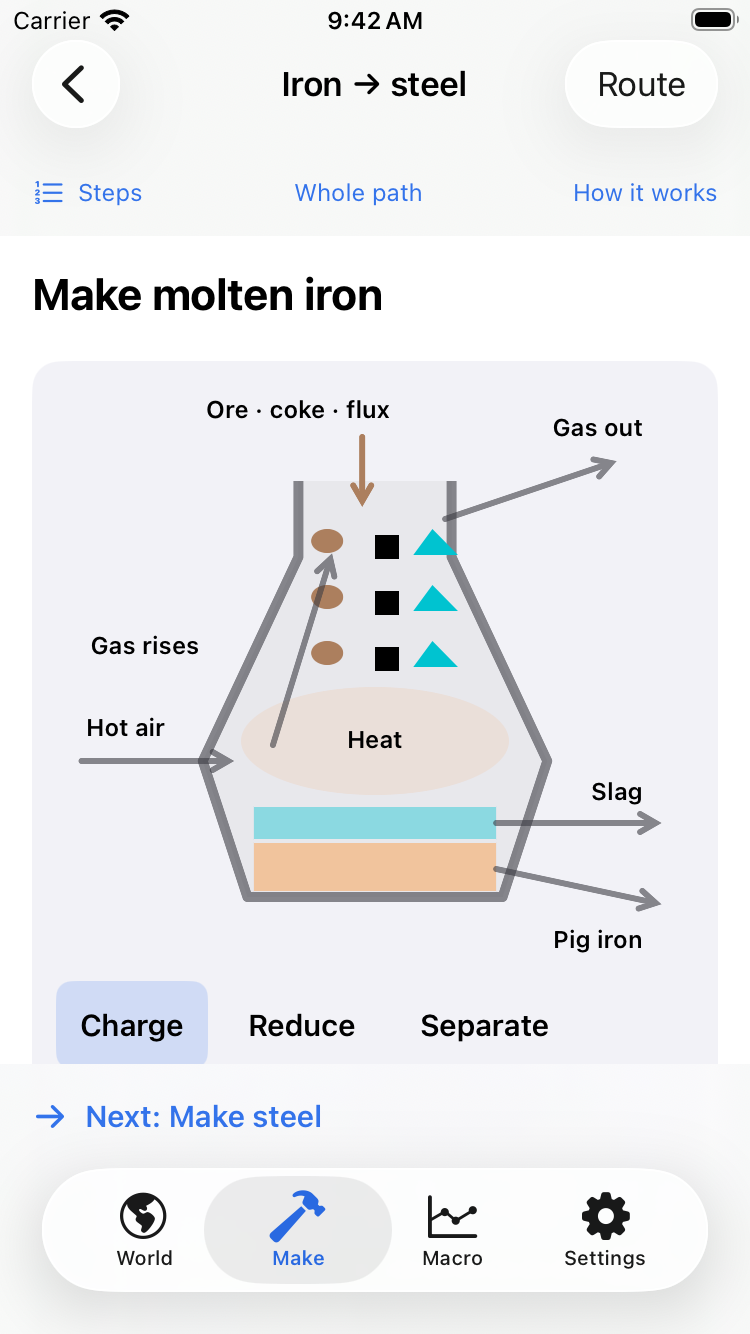
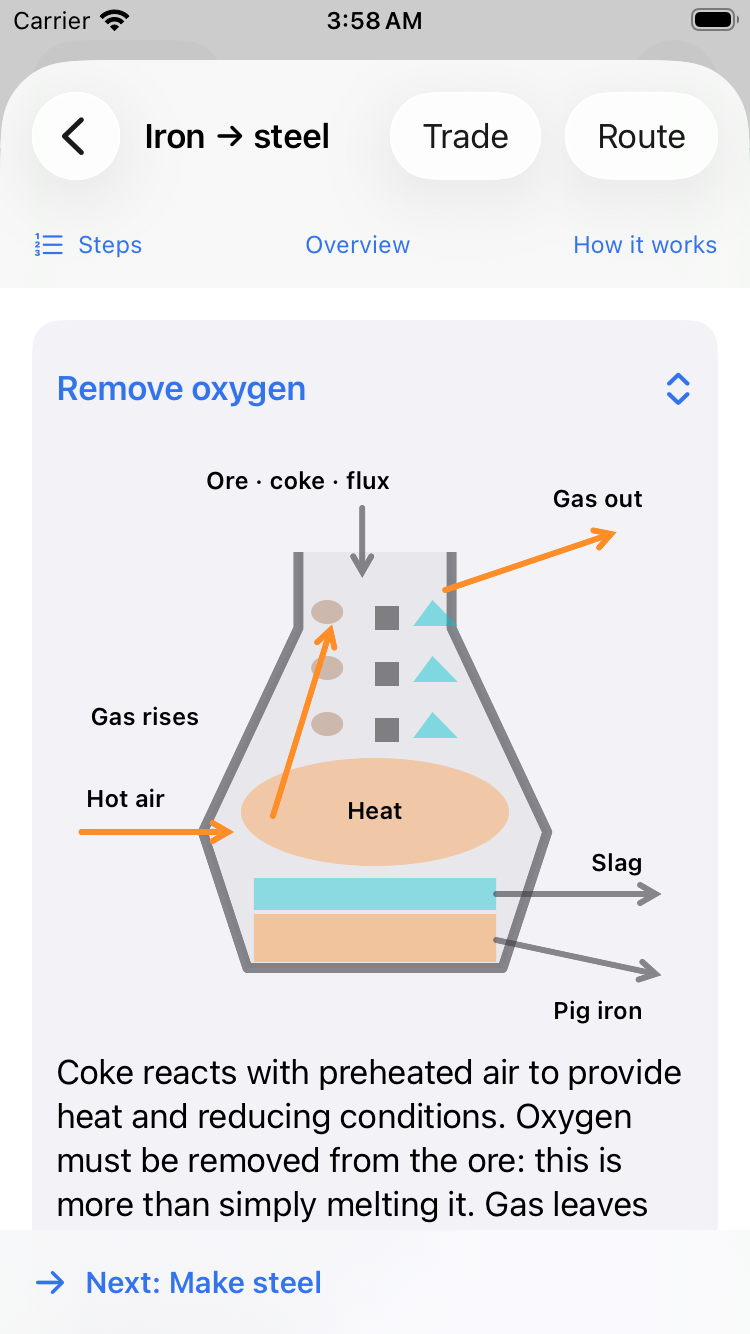
Explain iron reduction beside the native Pulse mechanism

diff --git a/work.html b/work.html
@@ -72,60 +72,70 @@
             </p>
           </div>
           <div class="pf-case-layout">
-            <div class="pf-case-reading">
-              <div class="pf-tabs" role="tablist" aria-label="View a Pulse screen">
-                <button id="tab-trade" role="tab" aria-controls="panel-trade" aria-selected="true" data-panel="trade"><span>01</span> 贸易 / Trade</button>
-                <button id="tab-routes" role="tab" aria-controls="panel-routes" aria-selected="false" tabindex="-1" data-panel="routes"><span>02</span> 工艺 / Process</button>
-                <button id="tab-mechanism" role="tab" aria-controls="panel-mechanism" aria-selected="false" tabindex="-1" data-panel="mechanism"><span>03</span> 原理 / Mechanism</button>
-              </div>
-              <article class="pf-explanation" data-copy="trade">
+            <div class="pf-tabs" role="tablist" aria-label="View a Pulse screen">
+              <button id="tab-trade" role="tab" aria-controls="panel-trade" aria-selected="true" data-panel="trade"><span>01</span> 贸易 / Trade</button>
+              <button id="tab-routes" role="tab" aria-controls="panel-routes" aria-selected="false" tabindex="-1" data-panel="routes"><span>02</span> 工艺 / Process</button>
+              <button id="tab-mechanism" role="tab" aria-controls="panel-mechanism" aria-selected="false" tabindex="-1" data-panel="mechanism"><span>03</span> 原理 / Mechanism</button>
+            </div>
+            <article class="pf-case-panel" id="panel-trade" role="tabpanel" aria-labelledby="tab-trade" tabindex="0">
+              <header class="pf-explanation pf-case-question">
                 <p class="pf-eyebrow">COUNTRIES → GOODS → PARTNERS</p>
                 <h3><span lang="zh-CN">谁在向谁交易？</span><span lang="en">Who trades with whom?</span>
                 </h3>
-                <p><span lang="zh-CN">选择铁矿石，查看主要贸易关系、金额与来源。地图呈现的是年度贸易额，不是航线或实时货运。</span><span lang="en">Select iron ore to inspect leading relationships, values and their source. The map shows annual trade value, not shipping routes or live cargo.</span>
-                </p>
-                <div class="pf-reading-note"><span lang="zh-CN">读图提示：截图仅画出 1,075 对关系中的前 15 对。未显示不等于没有贸易。</span><span lang="en">Reading the screen: 15 of 1,075 relationships are drawn. An omitted line does not mean no trade.</span>
-                </div>
-              </article>
-              <article class="pf-explanation" data-copy="routes" hidden>
-                <p class="pf-eyebrow">MATERIAL → PROCESS → PRODUCT</p>
-                <h3><span lang="zh-CN">矿石与废钢，为什么走不同的路？</span><span lang="en">Why do ore and scrap take different paths?</span>
-                </h3>
-                <p><span lang="zh-CN">矿石需要去除氧；废钢已经是金属，需要重新熔化。比较两条路线，再进入各自的工序。</span><span lang="en">Ore needs oxygen removed; scrap is already metal and is remelted. Compare the two routes, then explore their steps.</span>
-                </p>
-                <div class="pf-reading-note"><span lang="zh-CN">工艺参考：DOE 2015。一般生产示例，不代表地图上某一笔贸易的实际去向。</span><span lang="en">Process reference: DOE 2015. General production examples, not the destination of a mapped shipment.</span>
-                </div>
-              </article>
-              <article class="pf-explanation" data-copy="mechanism" hidden>
-                <p class="pf-eyebrow">A DIAGRAM YOU CAN QUESTION</p>
-                <h3><span lang="zh-CN">不只记住名称，更要看懂变化。</span><span lang="en">Understand the change, not just its name.</span>
-                </h3>
-                <p><span lang="zh-CN">用示意图理解材料如何变化，再查看解释和来源。图形帮助理解机制，不把简化画面当成设备图纸。</span><span lang="en">Use a schematic to understand a material change, then examine the explanation and source. A learning diagram explains a mechanism; it is not an equipment blueprint.</span>
-                </p>
-                <div class="pf-reading-note"><span lang="zh-CN">此网页切换真实截图；交互式学习发生在 iOS 应用中。</span><span lang="en">This page switches between actual screenshots. Interactive lessons run in the iOS app.</span>
-                </div>
-              </article>
-            </div>
-            <div class="pf-gallery">
-              <figure id="panel-trade" role="tabpanel" aria-labelledby="tab-trade" tabindex="0" >
+              </header>
+              <figure class="pf-gallery">
                 <a href="/media/pulse/world-iron-ore.png" target="_blank" rel="noopener" aria-label="Open full-size Annual iron ore trade map, CEPII BACI 2024">
                 <img src="/media/pulse/world-iron-ore.png" width="750" height="1334" alt="Annual iron ore trade map, CEPII BACI 2024" loading="lazy"></a>
                 <figcaption>实际应用截图 / Actual app screen · <a href="/media/pulse/world-iron-ore.png" target="_blank" rel="noopener">查看原图 / Full size ↗</a>
                 </figcaption>
               </figure>
-              <figure id="panel-routes" role="tabpanel" aria-labelledby="tab-routes" tabindex="0" hidden>
+              <div class="pf-explanation pf-case-answer">
+                <p><span lang="zh-CN">选择铁矿石，查看主要贸易关系、金额与来源。地图呈现的是年度贸易额，不是航线或实时货运。</span><span lang="en">Select iron ore to inspect leading relationships, values and their source. The map shows annual trade value, not shipping routes or live cargo.</span>
+                </p>
+                <div class="pf-reading-note"><span lang="zh-CN">读图提示：截图仅画出 1,075 对关系中的前 15 对。未显示不等于没有贸易。</span><span lang="en">Reading the screen: 15 of 1,075 relationships are drawn. An omitted line does not mean no trade.</span>
+                </div>
+              </div>
+            </article>
+            <article class="pf-case-panel" id="panel-routes" role="tabpanel" aria-labelledby="tab-routes" tabindex="0" hidden>
+              <header class="pf-explanation pf-case-question">
+                <p class="pf-eyebrow">MATERIAL → PROCESS → PRODUCT</p>
+                <h3><span lang="zh-CN">矿石与废钢，为什么走不同的路？</span><span lang="en">Why do ore and scrap take different paths?</span>
+                </h3>
+              </header>
+              <figure class="pf-gallery">
                 <a href="/media/pulse/steel-routes.png" target="_blank" rel="noopener" aria-label="Open full-size Two steelmaking routes: ore reduction and scrap remelting">
                 <img src="/media/pulse/steel-routes.png" width="750" height="1334" alt="Two steelmaking routes: ore reduction and scrap remelting" loading="lazy"></a>
                 <figcaption>实际应用截图 / Actual app screen · <a href="/media/pulse/steel-routes.png" target="_blank" rel="noopener">查看原图 / Full size ↗</a>
                 </figcaption>
               </figure>
-              <figure id="panel-mechanism" role="tabpanel" aria-labelledby="tab-mechanism" tabindex="0" hidden>
-                <a href="/media/pulse/steel-mechanism.png" target="_blank" rel="noopener" aria-label="Open full-size Pulse steelmaking mechanism learning screen">
-                <img src="/media/pulse/steel-mechanism.png" width="750" height="1334" alt="Pulse steelmaking mechanism learning screen" loading="lazy"></a>
+              <div class="pf-explanation pf-case-answer">
+                <p><span lang="zh-CN">矿石需要去除氧；废钢已经是金属，需要重新熔化。比较两条路线，再进入各自的工序。</span><span lang="en">Ore needs oxygen removed; scrap is already metal and is remelted. Compare the two routes, then explore their steps.</span>
+                </p>
+                <div class="pf-reading-note"><span lang="zh-CN">工艺参考：DOE 2015。一般生产示例，不代表地图上某一笔贸易的实际去向。</span><span lang="en">Process reference: DOE 2015. General production examples, not the destination of a mapped shipment.</span>
+                </div>
+              </div>
+            </article>
+            <article class="pf-case-panel" id="panel-mechanism" role="tabpanel" aria-labelledby="tab-mechanism" tabindex="0" hidden>
+              <header class="pf-explanation pf-case-question">
+                <p class="pf-eyebrow">ORE → IRON / 矿石 → 铁</p>
+                <h3><span lang="zh-CN">炼铁，不只是熔化。</span><span lang="en">More than melting.</span>
+                </h3>
+              </header>
+              <figure class="pf-gallery">
+                <a href="/media/pulse/steel-mechanism.png" target="_blank" rel="noopener" aria-label="Open full-size Pulse blast-furnace screen, with Remove oxygen selected">
+                <img src="/media/pulse/steel-mechanism.png" width="750" height="1334" alt="Pulse Remove oxygen view: orange arrows show hot air entering and gas rising; pig iron and slag leave through separate outlets." loading="lazy"></a>
                 <figcaption>实际应用截图 / Actual app screen · <a href="/media/pulse/steel-mechanism.png" target="_blank" rel="noopener">查看原图 / Full size ↗</a>
+                  <br><span lang="zh-CN">高炉工艺示例，不追踪某笔货物的去向。</span><br><span lang="en">A blast-furnace example, not a shipment trace.</span>
+                  <br><a href="https://www.energy.gov/sites/prod/files/2015/08/f26/iron_and_steel_bandwidth_report_0.pdf#page=26" target="_blank" rel="noopener">DOE 2015</a> · <a href="https://www.epa.gov/sites/default/files/2020-11/documents/c12s05.pdf" target="_blank" rel="noopener">EPA 1986 / 1995</a>
                 </figcaption>
               </figure>
-            </div>
+              <div class="pf-explanation pf-case-answer">
+                <p><span lang="zh-CN">氧化铁矿石中的铁与氧结合。焦炭和热风提供热量与还原条件，把氧去除。炉底得到的是含碳生铁；炼钢是下一步。</span><span lang="en">Iron in iron-oxide ore is bound to oxygen. Coke and hot air provide heat and reducing conditions that remove it. The output is carbon-rich pig iron; making steel comes later.</span>
+                </p>
+                <div class="pf-reading-note"><span lang="zh-CN">看橙色箭头：热风入炉，气体上升并排出。</span><span lang="en">Follow the orange arrows: hot air enters; gas rises and exits.</span>
+                </div>
+              </div>
+            </article>
           </div>
         </div>
       </section>

diff --git a/assets/pulse-feature.css b/assets/pulse-feature.css
@@ -124,12 +124,26 @@
 .pf-case .pf-section-head p [lang=en],.pf-case .pf-explanation p [lang=en] {
   color:#becfca}
 .pf-case-layout {
+  display:block}
+.pf-case-panel {
   display:grid;
   grid-template-columns:1.15fr .85fr;
-  gap:80px;
+  grid-template-rows:auto 1fr;
+  grid-template-areas:"question screenshot" "answer screenshot";
+  column-gap:80px;
   align-items:start}
+.pf-case-question {
+  grid-area:question}
+.pf-case-answer {
+  grid-area:answer;
+  padding-top:16px}
+.pf-case-panel .pf-case-question h3 {
+  margin-bottom:0}
+.pf-case-answer>p:first-child {
+  margin-top:0}
 .pf-tabs {
   display:flex;
+  width:calc(57.5% - 46px);
   border-bottom:1px solid #56716d;
   gap:4px;
   margin-bottom:40px}
@@ -178,7 +192,8 @@
 .pf-reading-note [lang=en] {
   display:block;
   margin-top:8px}
-.pf-gallery figure {
+.pf-gallery {
+  grid-area:screenshot;
   margin:0}
 .pf-gallery img {
   display:block;
@@ -283,8 +298,10 @@
 @media(max-width:900px) {
   .pf-hero,.pf-home {
   gap:32px}
-.pf-case-layout {
-  gap:40px}
+.pf-case-panel {
+  column-gap:40px}
+.pf-tabs {
+  width:calc(57.5% - 23px)}
 .pf-tabs button {
   padding-inline:8px;
   font-size:12px}
@@ -322,10 +339,14 @@
   font-size:29px}
 .pf-section-head h2 [lang=en],.pf-evidence h2 [lang=en],.pf-contact h2 [lang=en] {
   font-size:25px}
-.pf-case-layout {
-  grid-template-columns:1fr;
-  gap:30px}
+.pf-case-panel {
+  display:flex;
+  flex-direction:column;
+  gap:24px}
+.pf-case-answer {
+  padding-top:0}
 .pf-tabs {
+  width:100%;
   margin-bottom:26px;
   gap:0}
 .pf-tabs button {
@@ -337,6 +358,9 @@
   font-size:23px}
 .pf-gallery img {
   max-width:290px}
+.pf-gallery {
+  align-self:center;
+  width:100%}
 .pf-section-head {
   margin-bottom:26px}
 .pf-home h2 {

diff --git a/assets/pulse-showcase.js b/assets/pulse-showcase.js
@@ -7,7 +7,6 @@
       item.setAttribute('aria-selected', String(active));
       item.tabIndex = active ? 0 : -1;
       document.getElementById(item.getAttribute('aria-controls')).hidden = !active;
-      document.querySelector(`[data-copy="${item.dataset.panel}"]`).hidden = !active;
     });
     if (focus) tab.focus();
   }

diff --git a/README.md b/README.md
@@ -22,7 +22,7 @@ Screenshot provenance (unmodified PNGs, copied from the Pulse repository's retai
 | --- | --- |
 | `media/pulse/world-iron-ore.png` | `native-world-reset/selected-goods-2601-normal.png` |
 | `media/pulse/steel-routes.png` | `making-understanding/steel-comparison-entry-normal.png` |
-| `media/pulse/steel-mechanism.png` | `making-understanding/steel-comparison-ore-mechanism-normal.png` |
+| `media/pulse/steel-mechanism.png` | `trade-to-iron-2026-10-02/global-ore-direct-entry-normal.png` (updated 2 October) |
 
 These are development-build examples, not a claim about a publicly downloadable version. The map identifies CEPII BACI 2024 and retained coverage; the process comparison identifies DOE 2015. A trade relationship does not establish a shipment's factory or subsequent use. Do not replace these with synthetic app imagery or remove the scope captions.
 
@@ -33,3 +33,17 @@ These are development-build examples, not a claim about a publicly downloadable 
 Inspect the actual captures, including below-fold content and both additional screenshots. The run emulates reduced motion; the new walkthrough itself has no animation. Screenshots are links to full-size originals because small preview text is not a substitute for reading the native screen. Also verify local links and preserve the personal introduction/proof-strip HTML and About/résumé bytes against the accepted baseline before merge.
 
 This revision was checked against the actual deployed site and local baseline, then checked at all three widths with no horizontal overflow, missing referenced images or browser errors. Keyboard tab selection and reduced-motion presentation passed. Personal intro/proof-strip HTML and About/résumé/language aliases matched baseline bytes. The first automated image check incorrectly counted the existing empty photo-dialog image as a failed asset; corrected to check images with `src`. Independent source/capture review and actual-browser desktop/mobile operation were approved, including keyboard tab switching. Long bilingual page length remains a design tradeoff. No deployment is included; publishing is a separate parent-owned step.
+
+## Mechanism explanation follow-up (2 October 2026)
+
+Continuity: PR63 merged as `e1fd0a5`; its retained delivery receipt records successful Pages run `36961200624` and live homepage/Work/CSS/JavaScript byte matching. A read-only remote check on 2 October confirmed `main` still at `e1fd0a5`, matching this worktree's starting point; there was no open PR for this branch. The preceding “No deployment is included” statement describes the earlier implementation handoff, not today's deployment state.
+
+The existing Mechanism tab now answers one concrete question: why melting iron-oxide ore is insufficient. Its unmodified, accepted native **Remove oxygen** screenshot replaces the older **Charge** capture; the explanation connects bound oxygen, coke/hot air, reducing conditions and carbon-rich pig iron to the visible arrows/output. DOE 2015 and EPA (1986, reformatted 1995) remain process references, not measured shipment, plant, quantity or operating-time evidence. The controls still switch static screenshots; they do not simulate the furnace. The same three tabs remain. Biography, homepage, credentials, résumé, trade values and App Store availability claims do not change.
+
[1 lines of base64/hex data omitted]
+
+The first browser check passed homepage/Work at 320, 390 and 1440 pixels, image loading, horizontal overflow, language aliases, keyboard/pointer tab switching and reduced-motion emulation. Original captures: `/tmp/pulse-site-mechanism-20261002/`; log: `/tmp/pulse-site-mechanism-check.log`. Actual `320-mechanism.png`, `390-mechanism.png` and `1440-mechanism.png` showed the selected oxygen-removal state and orange-arrow cue agreeing, with separate pig-iron/slag outlets. **Parent review rejected the mobile hierarchy despite those passing checks:** about 640/750px of bilingual copy preceded the image at 390/320px. That failed visual candidate remains preserved. Its temporary server/browser closed in `finally`, with no port8127 listener or owned Playwright Chrome process remaining.
+
+The repair puts each panel's question, native image/caption and explanation in that DOM order. Mobile follows the natural reading/focus sequence; desktop places the image beside the question and explanation with scoped CSS Grid. The tab controller now hides one complete panel rather than separate copy and image elements. The existing browser check additionally verifies DOM/visual reading order and keyboard focus from the selected tab to its panel and image link.
+
+The repaired check passed all three widths, with original captures in `/tmp/pulse-site-mechanism-order-20261002/` and log `/tmp/pulse-site-mechanism-order-check.log`. Actual `320-mechanism.png`, `390-mechanism.png`, `1440-mechanism.png` and `390-routes.png` were inspected: the mobile screenshot now follows the short question before the explanatory paragraphs, and desktop remains side by side. In the Mechanism component capture, the image starts about 270px/250px below the tabs at 320/390px, versus the rejected roughly 750px/640px. This is the case-study section, not a claim that the page's earlier hero/intro disappeared. Final server/browser termination was verified again; there are no additional background services. Parent reviewed the final 390px capture, and independent source/visual review approved all three widths. Merge and deployment remain pending. Small native screenshot labels still need the full-size link, the full bilingual page remains long, and spoken VoiceOver, phone-app acceptance and human comprehension are unverified.
